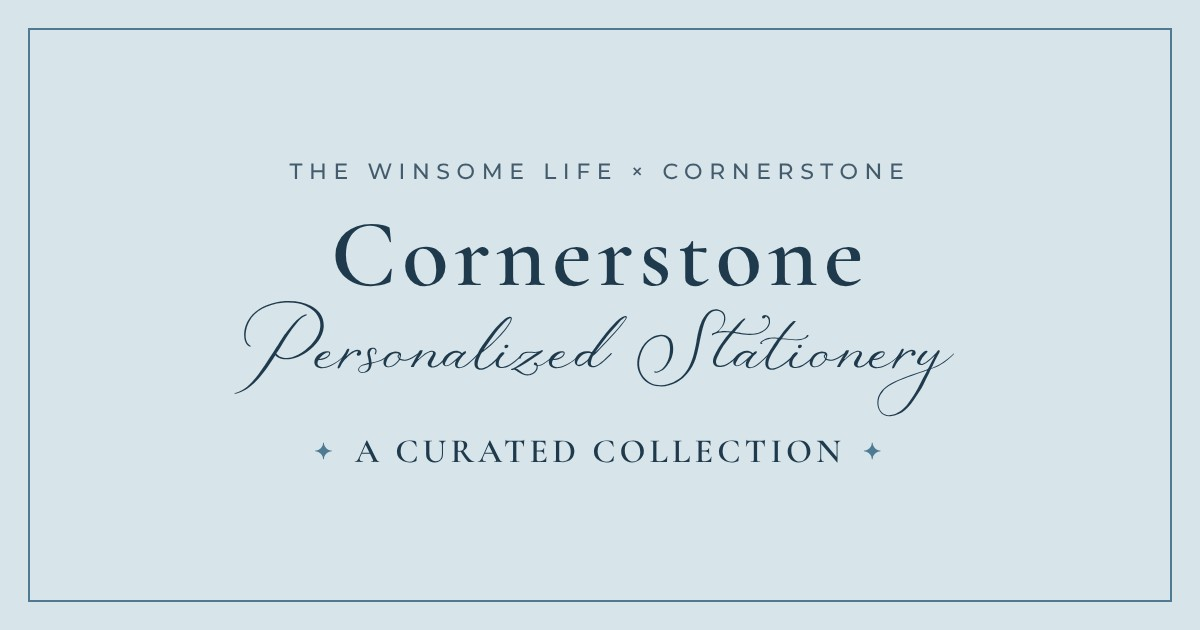
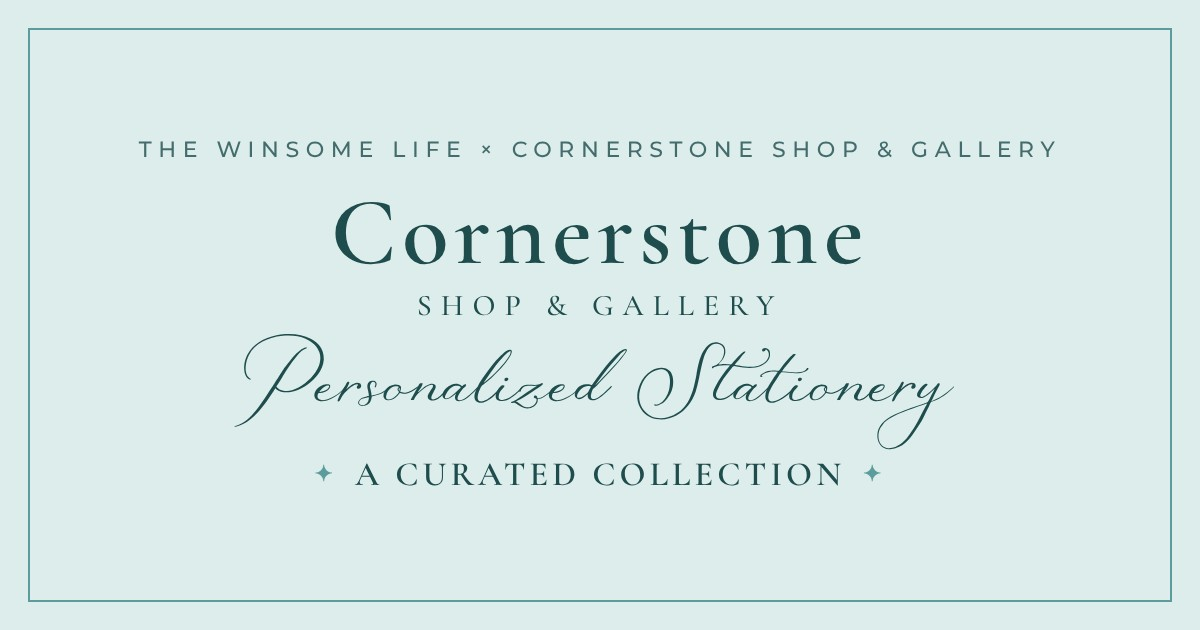
Cornerstone Shop & Gallery: full name, their teal colors
Claude-Session: https://claude.ai/code/session_01CfVqtoW5zsALxSaAEsBk63

diff --git a/app/lib/partners.ts b/app/lib/partners.ts
@@ -114,21 +114,22 @@ export const PARTNERS: Record<string, Partner> = {
   },
   cornerstone: {
     handle: 'cornerstone',
-    name: 'Cornerstone',
+    name: 'Cornerstone Shop & Gallery',
     collection: 'partner-cornerstone',
     // Shopify code discount CORNERSTONE35: 35% off (most collections), no end
     // date. Products copied from Boxwood Cottage (Sydney, Nov 2026).
     discountCode: 'CORNERSTONE35',
     discountPercent: 35,
     intro:
-      'A curated collection of The Winsome Life’s personalized stationery, chosen especially for Cornerstone customers.',
+      'A curated collection of The Winsome Life’s personalized stationery, chosen especially for Cornerstone Shop & Gallery customers.',
     // Name as a wordmark until we have their logo file (Lake Geneva, WI).
     logo: null,
     viewToggle: true,
     shareImage: cornerstoneShare,
     website: 'https://cornerstonelakegeneva.com',
-    // Lake blue with deep navy text (placeholder until we see their brand).
-    colors: {background: '#D7E4EA', text: '#1F3A4D', accent: '#4F7A93'},
+    // Their teal (#5C9C9C) as the accent on a light teal, with deep teal
+    // text so small type stays readable.
+    colors: {background: '#DCEDEC', text: '#1F4D4D', accent: '#5C9C9C'},
   },
   'cahill-edit': {
     handle: 'cahill-edit',
